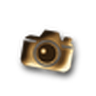
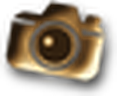
The guide: the camera right of the title, cropped to what is drawn
At the user's asking ("add camera icon right of top left header text"),
as DAOTurnBased's hourglass.

Claude-Session: https://claude.ai/code/session_01GEwXuqatWkQwz3w651abBq

diff --git a/docs/_includes/title.html b/docs/_includes/title.html
@@ -1,6 +1,6 @@
 {%- comment -%}
 The site's title, overriding Just the Docs' own: the gold camera of the game's top bar
-(assets/camera-icon.png, tools/camera_icon.py) before the name.
+(assets/camera-icon.png: build/ui/camera.png, tools/camera_icon.py's, cropped to what is drawn and at 96 high) after the name (its order, _sass/custom/custom.scss).
 {%- endcomment -%}
-<img class="site-icon" src="{{ '/assets/camera-icon.png' | relative_url }}" alt="" width="32" height="32">
+<img class="site-icon" src="{{ '/assets/camera-icon.png' | relative_url }}" alt="" width="117" height="96">
 <span class="site-name">{{ site.title }}</span>

diff --git a/docs/_sass/custom/custom.scss b/docs/_sass/custom/custom.scss
@@ -4,7 +4,8 @@
 
 // -- the sidebar and the header ------------------------------------------------------------------
 
-// The camera before the site's name.
+// The camera after the site's name (the user, 2026-10-15: "add camera icon right of top left header
+// text"), as DAOTurnBased's guide has its hourglass.
 .site-title {
   display: flex;
   align-items: center;
@@ -13,7 +14,8 @@
 }
 
 .site-icon {
-  height: 32px;
+  order: 1;
+  height: 24px;
   width: auto;
 }
 
